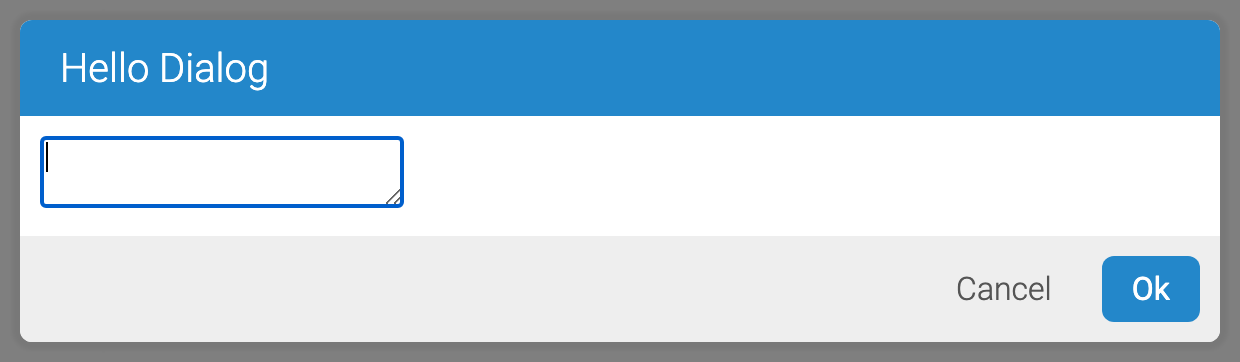
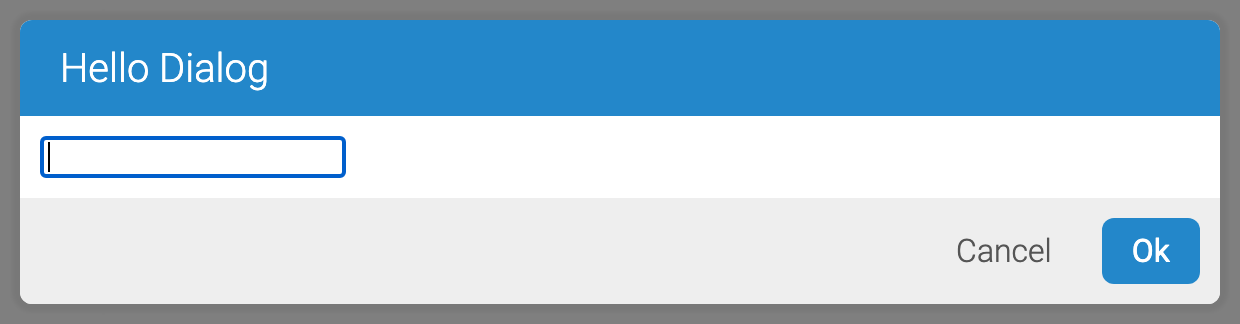
input test

diff --git a/test/temba-dialog.test.ts b/test/temba-dialog.test.ts
@@ -12,7 +12,7 @@ const getDialogClip = (dialog: Dialog) => {
 const getDialogHTML = (hideOnClick = false) => {
   return `
     <temba-dialog header="Hello Dialog" ${hideOnClick ? 'hideOnClick' : ''}>
-      <textarea name="comment" style="margin: 10px"></textarea>
+      <input type="text" name="comment" style="margin: 10px"/>
     </temba-dialog>
   `;
 };
@@ -89,7 +89,7 @@ describe('temba-dialog', () => {
     const dialog: Dialog = await fixture(getDialogHTML());
     await open(dialog);
 
-    const textarea = dialog.querySelector('textarea');
+    const textarea = dialog.querySelector('input');
     expect(document.activeElement).to.equal(textarea);
     await assertScreenshot('dialog/focused', getDialogClip(dialog));
   });
@@ -98,9 +98,8 @@ describe('temba-dialog', () => {
     const dialog: Dialog = await fixture(getDialogHTML(true));
     await open(dialog);
 
-    const mask: HTMLDivElement = dialog.shadowRoot.querySelector(
-      '#dialog-mask'
-    );
+    const mask: HTMLDivElement =
+      dialog.shadowRoot.querySelector('#dialog-mask');
     mask.click();
 
     await dialog.updateComplete;

diff --git a/test-assets/modax/form.html b/test-assets/modax/form.html
@@ -1,6 +1,6 @@
 <html>
   <div>
-    <textarea>This is a remote form</textarea>
+    <input type="text" value="This is a remote form"/>
     <div class="form-actions">
       <input type="submit" value="Save Everything"/>
     </div>

diff --git a/src/checkbox/Checkbox.ts b/src/checkbox/Checkbox.ts
@@ -36,7 +36,6 @@ export class Checkbox extends FormElement {
       }
 
       .checkbox-label {
-        font-family: var(--font-family);
         padding: 0px;
         margin-left: 8px;
         font-weight: 300;
